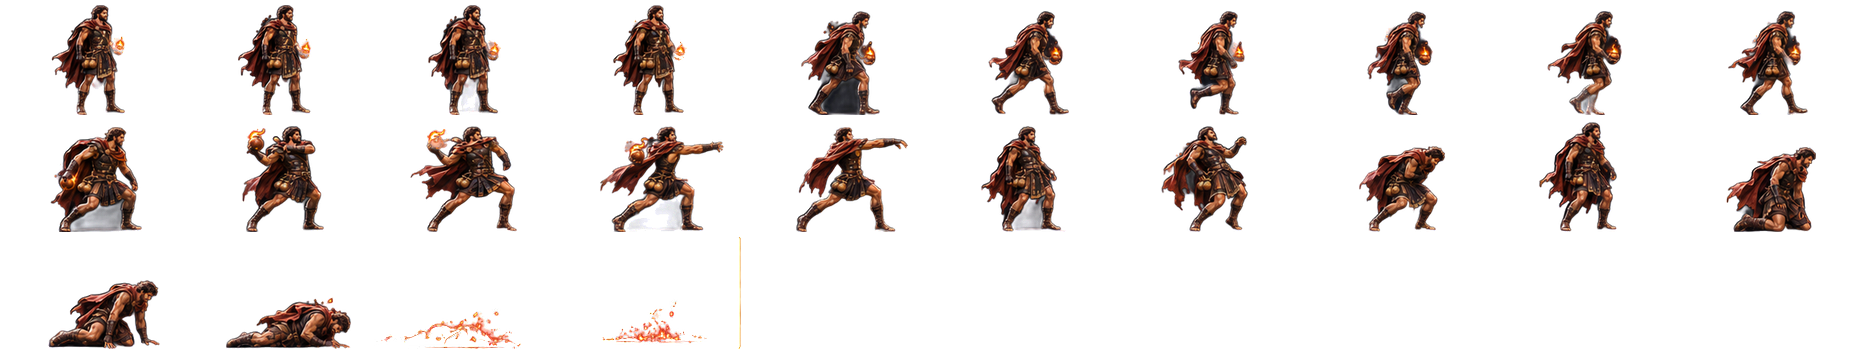
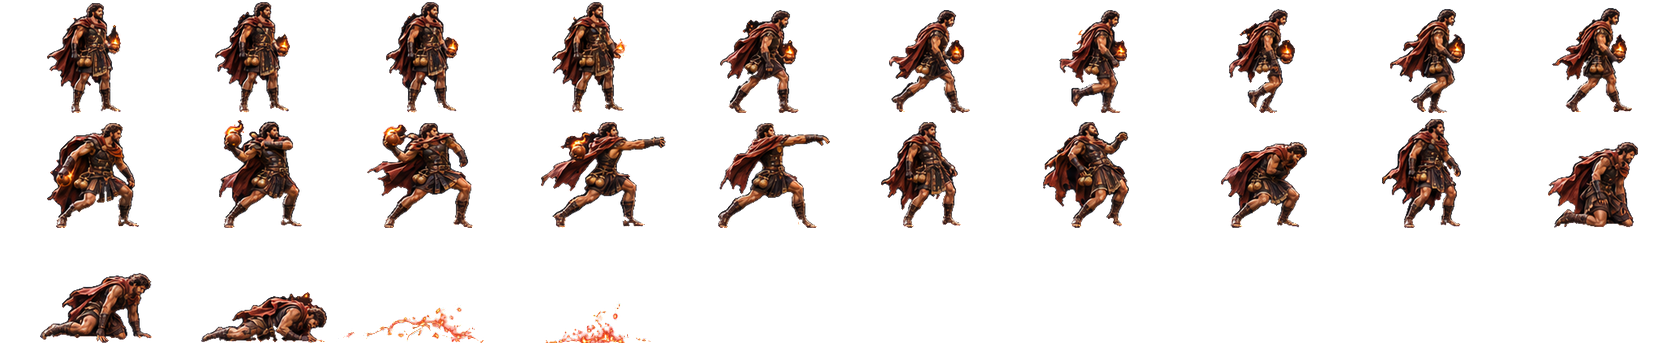
v0.14.1: spion bevriest doelwit (redden kan), P-51 mist niemand meer, duidelijker genezen, schonere uitsneden
- spion: betoverde eenheid staat stil en valt niet aan; spion doden = eenheid gered;
  betoveren duurt 3 s (was 2); roze tint, hartjes en reddingsbalk in beeld
- P-51: hitmarge zodat eenheden die het vliegtuig tegemoet lopen niet meer
  tussen twee ticks door glippen (was 20% gemist)
- genezeres kijkt naar wie ze geneest; lichtstraal en +LP-getal in beeld
  (simulatie geneest aantoonbaar alleen eigen eenheden: test)
- uitsneden nieuwe borden: dekkend figuur, geen schaduwwaas/grondschaduw/paneellijnen
- 4 nieuwe tests; testhulp kent de state 'charmed'

Claude-Session: https://claude.ai/code/session_01G3ZjrAEdzY3bS4o8QwE679

diff --git a/src/main.js b/src/main.js
@@ -509,7 +509,13 @@ class Battle extends Phaser.Scene {
           healer.lockUntil = now + healer.sprite.anims.currentAnim.duration;
         }
         const ally = this.state.units.find(u => u.id === e.targetId);
-        this.sparks.push({ x: e.to.x, y: (ally ? footY(ally) : e.to.y) - 30, t: 0, dur: 0.55, color: 0xffe27a, heal: true });
+        const healerUnit = this.state.units.find(u => u.id === e.attackerId);
+        const ay = (ally ? footY(ally) : e.to.y) - 30;
+        this.sparks.push({ x: e.to.x, y: ay, t: 0, dur: 0.55, color: 0xffe27a, heal: true });
+        if (healerUnit) this.sparks.push({ x: healerUnit.x + healerUnit.facing * 20, y: footY(healerUnit) - 44, tx: e.to.x, ty: ay, t: 0, dur: 0.35, color: 0x9dffb0, beam: true });
+        const plus = this.add.text(e.to.x, ay - 14, '+' + Math.round(e.amount), textStyle(11, '#8dffa3', { strokeThickness: 3 }))
+          .setOrigin(0.5).setDepth(1020).setResolution(clamp(Math.ceil(this.view.zoom), 1, 4));
+        this.tweens.add({ targets: plus, y: plus.y - 18, alpha: 0, duration: 900, onComplete: () => plus.destroy() });
       } else if (e.type === 'cloak') {
         const v = this.views.get(e.id);
         if (v) {
@@ -678,11 +684,24 @@ class Battle extends Phaser.Scene {
       const ud = UNIT_ART[u.card.type], flip = u.facing < 0;
       v.sprite.setPosition(u.x, fy).setFlipX(flip).setOrigin(flip ? 1 - ud.originX : ud.originX, ud.originY)
         .setDepth(fy).setAlpha(alpha);
-      if (now >= v.lockUntil) {
-        const anim = u.state === 'move' ? 'walk' : u.card.type === 'spy' && u.channelTargetId ? 'charm' : 'idle';
-        v.sprite.anims.play(`${v.sprite.texture.key}:${anim}`, true);
+      if (u.state === 'charmed') {
+        // Betoverd: bevroren, roze, hartjes en een balk die toont hoe lang je nog hebt om te redden.
+        if (!v.sprite.anims.isPaused) v.sprite.anims.pause();
+        const spy = this.state.units.find(x => x.id === u.charmedBy);
+        const k = spy ? clamp(spy.channelProgress / spy.card.channelTime, 0, 1) : 0;
+        const top = fy - (UNIT_HEIGHT[u.card.type] ?? 56) - 9;
+        b.fillStyle(0x1d1a16, 0.9).fillRoundedRect(u.x - 16, top, 32, 5, 2);
+        b.fillStyle(0xff6fd0).fillRoundedRect(u.x - 16, top, 32 * k, 5, 2);
+        if (Math.random() < 0.08) this.sparks.push({ x: u.x + (Math.random() - 0.5) * 18, y: fy - 40, t: 0, dur: 0.7, color: 0xff7ad9, heart: true });
+      } else {
+        if (v.sprite.anims.isPaused) v.sprite.anims.resume();
+        if (now >= v.lockUntil) {
+          const anim = u.state === 'move' ? 'walk' : u.card.type === 'spy' && u.channelTargetId ? 'charm' : 'idle';
+          v.sprite.anims.play(`${v.sprite.texture.key}:${anim}`, true);
+        }
       }
-      if (now < v.flashUntil) v.sprite.setTint(0xff9a8a);
+      if (u.state === 'charmed') v.sprite.setTint(0xff9ad8);
+      else if (now < v.flashUntil) v.sprite.setTint(0xff9a8a);
       else if (now < (v.charmUntil ?? 0)) v.sprite.setTint(0xffa6e8);
       else if (u.hidden) v.sprite.setTint(0xb48cff);
       else v.sprite.clearTint();
@@ -768,6 +787,17 @@ class Battle extends Phaser.Scene {
       s.t += dt;
       const k = s.t / s.dur;
       if (k >= 1) return false;
+      if (s.heart) {   // hartje dat opstijgt
+        const hx = s.x, hy = s.y - k * 18, r = 2.2;
+        g.fillStyle(s.color, 1 - k).fillCircle(hx - r * 0.55, hy, r).fillCircle(hx + r * 0.55, hy, r)
+          .fillTriangle(hx - r * 1.5, hy + r * 0.3, hx + r * 1.5, hy + r * 0.3, hx, hy + r * 2.2);
+        return true;
+      }
+      if (s.beam) {    // lichtstraal van genezeres naar bondgenoot
+        g.lineStyle(3, s.color, (1 - k) * 0.8).lineBetween(s.x, s.y, s.tx, s.ty);
+        g.lineStyle(1.2, 0xffffff, (1 - k) * 0.9).lineBetween(s.x, s.y, s.tx, s.ty);
+        return true;
+      }
       if (s.heal) {   // opstijgende gouden (genezen) of roze (betoverd) glinsters
         for (let i = 0; i < 6; i++) {
           const a = i * 1.05 + s.x, rr = 8 + 6 * Math.sin(a * 3);

diff --git a/tests/special-units.test.js b/tests/special-units.test.js
@@ -50,12 +50,12 @@ test('Healer heals biological allies but not mechanical units', () => {
   assert.equal(cannon.hp, 100);
 });
 
-test('Spy converts an eligible biological unit after 2 seconds and disappears', () => {
+test('Spy converts an eligible biological unit after the channel time and disappears', () => {
   const s = createBattle({ ai: false });
   const spy = addUnit(s, 'blue', 0, idx('spy'), 490);
   const foe = addUnit(s, 'red', 0, idx('melee'), 507);
   spy.hp = 500; spy.max = 500;
-  const events = run(s, 2.15);
+  const events = run(s, spy.card.channelTime + 0.15);
   assert.equal(foe.side, 'blue');
   assert.ok(events.some(e => e.type === 'possess' && e.targetId === foe.id));
   assert.ok(!s.units.includes(spy));
@@ -110,4 +110,57 @@ test('Samurai stays visible while it keeps fighting', () => {
   foe.hp = foe.max = 5000;
   run(s, 0.5);
   for (let i = 0; i < 6 * 60; i++) { step(s, 1 / 60); assert.equal(samurai.hidden, false); }
+});
+
+test('P-51 hits every enemy unit in its lane, also units walking towards it', () => {
+  let missed = 0;
+  for (let k = 0; k < 40; k++) {
+    const s = createBattle({ ai: false, seed: k });
+    const units = [];
+    for (let i = 0; i < 5; i++) {
+      const u = addUnit(s, 'red', 0, idx(i % 2 ? 'cavalry' : 'melee'), 330 + i * 80 + k * 1.3);
+      u.hp = u.max = 99999; units.push(u);
+    }
+    s.energy.blue = 10; deploy(s, 'blue', 0, idx('p51'), 400);
+    const hit = new Set(run(s, 2.5).filter(e => e.kind === 'p51').map(e => e.targetId));
+    missed += units.filter(u => !hit.has(u.id)).length;
+  }
+  assert.equal(missed, 0);
+});
+
+test('Charmed unit is frozen while the spy channels', () => {
+  const s = createBattle({ ai: false });
+  const spy = addUnit(s, 'blue', 0, idx('spy'), 470);
+  const foe = addUnit(s, 'red', 0, idx('melee'), 500);
+  spy.hp = spy.max = 5000;
+  run(s, 0.3);
+  assert.equal(foe.charmedBy, spy.id);
+  const x = foe.x;
+  const events = run(s, spy.card.channelTime - 0.6);
+  assert.equal(foe.state, 'charmed');
+  assert.equal(foe.x, x, 'staat stil');
+  assert.ok(!events.some(e => e.type === 'hit' && e.attackerId === foe.id), 'valt niet aan');
+});
+
+test('Killing the spy in time rescues the charmed unit', () => {
+  const s = createBattle({ ai: false });
+  const spy = addUnit(s, 'blue', 0, idx('spy'), 470);
+  const foe = addUnit(s, 'red', 0, idx('melee'), 500);
+  run(s, 0.5);
+  assert.equal(foe.state, 'charmed');
+  spy.hp = 0;                                   // gered: een bondgenoot doodt de spion
+  run(s, 0.5);
+  assert.equal(foe.side, 'red');
+  assert.equal(foe.charmedBy ?? null, null);
+  assert.notEqual(foe.state, 'charmed');
+});
+
+test('Healer only heals own units and turns towards the ally she heals', () => {
+  const s = createBattle({ ai: false });
+  const healer = addUnit(s, 'red', 0, idx('healer'), 600);
+  const enemy = addUnit(s, 'blue', 0, idx('melee'), 560); enemy.hp = enemy.max = 99999; enemy.hp = 5000;
+  const ally = addUnit(s, 'red', 0, idx('melee'), 660); ally.hp = 100;
+  const heals = run(s, 3).filter(e => e.type === 'heal');
+  assert.ok(heals.length >= 1);
+  assert.ok(heals.every(e => e.targetId === ally.id));
 });

diff --git a/src/sim/battle.js b/src/sim/battle.js
@@ -235,8 +235,11 @@ export function step(state, dt) {
       ...state.structures.filter(t => t.hp > 0 && t.side !== strike.side && t.kind === 'tower' && t.lane === strike.lane),
     ];
     for (const target of candidates) {
-      if (strike.hitIds.includes(target.id) || target.x < Math.min(x0, x1) ||
-          target.x > Math.max(x0, x1)) continue;
+      // Marge: eenheden lopen het vliegtuig tegemoet en zouden anders tussen
+      // twee ticks door het strookje kunnen glippen.
+      const margin = target.radius + 8;
+      if (strike.hitIds.includes(target.id) || target.x < Math.min(x0, x1) - margin ||
+          target.x > Math.max(x0, x1) + margin) continue;
       const aircraft = CARDS.find(c => c.type === 'p51');
       const pct = target.kind ? 0 : aircraft.minUnitDamagePct +
         state.rng() * (aircraft.maxUnitDamagePct - aircraft.minUnitDamagePct);
@@ -259,6 +262,12 @@ export function step(state, dt) {
   // 1. BESLISSEN
   for (const u of state.units) {
     if (u.hp <= 0) continue;
+    // Betoverd door een spion: bevroren tot de overname, of tot de spion gedood is (gered).
+    if (u.charmedBy) {
+      const spy = state.units.find(x => x.id === u.charmedBy && x.hp > 0 && x.channelTargetId === u.id);
+      if (spy) { u.state = 'charmed'; u.targetId = null; continue; }
+      u.charmedBy = null;
+    }
     u.cd = Math.max(0, u.cd - dt);
     // Schaduwsamoerai: na recloakTime zonder aanval weer onzichtbaar, met nieuwe hinderlaagbonus.
     if (u.card.type === 'samurai' && !u.hidden) {
@@ -279,6 +288,7 @@ export function step(state, dt) {
         const ally = allies[0];
         const amount = Math.min(ally.max - ally.hp, ally.max * u.card.healPct);
         ally.hp += amount;
+        if (ally.x !== u.x) u.facing = ally.x > u.x ? 1 : -1;
         u.cd = u.card.rate;
         u.state = 'attack';
         u.targetId = ally.id;
@@ -296,6 +306,7 @@ export function step(state, dt) {
       if (u.card.type === 'spy') {
         u.state = 'attack';
         if (u.channelTargetId !== target.id) { u.channelTargetId = target.id; u.channelProgress = 0; }
+        target.charmedBy = u.id;
         u.channelProgress += dt;
         if (u.channelProgress >= u.card.channelTime) {
           const formerSide = target.side;
@@ -304,6 +315,7 @@ export function step(state, dt) {
           target.targetId = null;
           target.channelTargetId = null;
           target.channelProgress = 0;
+          target.charmedBy = null;
           u.hp = 0;
           state.events.push({ type: 'possess', spyId: u.id, targetId: target.id,
             fromSide: formerSide, toSide: u.side, x: target.x, y: target.y });

diff --git a/src/sim/config.js b/src/sim/config.js
@@ -44,7 +44,7 @@ export const CARDS = [
   { name: 'Shadow Samurai', type: 'samurai', role: 'melee', material: 'bio', cost: 4,
     hp: 170, damage: 54, range: 14, speed: 75, rate: 1.0, radius: 13, stealthBonus: 1.5, recloakTime: 2.5 },
   { name: 'Spy', type: 'spy', role: 'special', material: 'bio', cost: 5,
-    hp: 100, damage: 0, range: 24, speed: 59, rate: 2.0, radius: 12, channelTime: 2.0, maxStealCost: 5 },
+    hp: 100, damage: 0, range: 24, speed: 59, rate: 2.0, radius: 12, channelTime: 3.0, maxStealCost: 5 },
   { name: 'Fire Thrower', type: 'firethrower', role: 'ranged', material: 'bio', cost: 4,
     hp: 115, damage: 18, range: 94, speed: 40, rate: 2.4, radius: 13, splashRadius: 42, burnDps: 12, burnSeconds: 3 },
   { name: 'P-51 Mustang', type: 'p51', role: 'special', material: 'mechanical', cost: 6,

diff --git a/tests/helpers.js b/tests/helpers.js
@@ -49,6 +49,9 @@ export function run(state, seconds, onTick) {
         const waited = (sinceHit.get(u.id) ?? 0) + TICK;
         sinceHit.set(u.id, waited);
         assert.ok(u.card.type === 'spy' || waited <= u.card.rate + 2 * TICK, `eenheid ${u.id} (${u.card.name}) staat ${waited.toFixed(2)}s in 'attack' zonder te slaan`);
+      } else if (u.state === 'charmed') {
+        assert.equal(u.x, before.get(u.id), `betoverde eenheid ${u.id} hoort stil te staan`);
+        sinceHit.delete(u.id);
       } else if (u.state === 'idle' && u.card.type === 'spy') {
         // Spy awaits an eligible biological target.
       } else {

diff --git a/tools/art/boards.py b/tools/art/boards.py
@@ -42,13 +42,55 @@ def panel_frames(a, y0, y1, x0, x1, count, thresh=58, mingap=8):
         runs[i:i+1] = [[r0, c], [c, r1]]
     return [(x0 + r0, y0, x0 + r1, y1) for r0, r1 in runs]
 
-def cut_frame(a, box, pad=10, glow=True, fx_only=False):
+
+def clean_alpha(rgb, al, bg_blobs=True):
+    """u2net-alpha -> strak masker: figuur volledig dekkend, waas en grondschaduw weg."""
+    f = rgb.astype(float)
+    bg = np.median(np.concatenate([f[:4].reshape(-1, 3), f[:, :4].reshape(-1, 3), f[:, -4:].reshape(-1, 3)]), 0)
+    dist = np.abs(f - bg).max(2)                       # verschil met de bordachtergrond
+    core = (al > 60) | ((al > 10) & (dist > 20))       # zeker figuur
+    core = ndi.binary_closing(core, iterations=1)
+    # alleen kleine gaatjes dichten; grote openingen (tussen benen, binnen een boog) blijven open
+    holes = ndi.binary_fill_holes(core) & ~core
+    hl, hn = ndi.label(holes)
+    if hn:
+        hs = ndi.sum(holes, hl, range(1, hn + 1))
+        core |= np.isin(hl, [i + 1 for i, v in enumerate(hs) if v < 60])
+    # grote achtergrondkleurige vlakken die aan de buitenkant van het figuur grenzen (tussen benen e.d.)
+    bgl = core & (dist < 15) if bg_blobs else np.zeros_like(core)
+    bl, bn = ndi.label(bgl)
+    if bn:
+        outside = ndi.binary_dilation(~core, iterations=1)
+        bs = ndi.sum(bgl, bl, range(1, bn + 1))
+        touch = ndi.maximum(outside, bl, range(1, bn + 1))
+        core &= ~np.isin(bl, [i + 1 for i in range(bn) if bs[i] > 80 and touch[i]])
+    # grondschaduw: onderste strook, alleen pixels die op de achtergrond lijken weg
+    h = core.shape[0]; foot = np.zeros_like(core); foot[int(h * 0.9):] = True
+    core &= ~(foot & (dist < 28))
+    core = ndi.binary_opening(core, iterations=1)
+    lab, n = ndi.label(core)
+    if n:
+        sizes = ndi.sum(core, lab, range(1, n + 1))
+        core = np.isin(lab, [i + 1 for i, s in enumerate(sizes) if s >= max(40, sizes.max() * 0.01)])
+    # zachte rand van 1-2 px
+    soft = ndi.gaussian_filter(core.astype(float), 0.8)
+    return np.where(core, np.maximum(soft, 0.75), soft * (soft > 0.35)) * 255
+
+
+def _thin_line(sl):
+    h, w = sl[0].stop - sl[0].start, sl[1].stop - sl[1].start
+    return (h <= 7 and w > 30) or (w <= 7 and h > 30)   # paneelrand, geen figuur
+
+def cut_frame(a, box, pad=10, glow=True, fx_only=False, bg_blobs=True):
     """Geeft (rgb, mask, alpha) voor één frame."""
     x0, y0, x1, y1 = box
     X0, Y0 = max(0, x0 - pad), max(0, y0)
     X1, Y1 = min(a.shape[1], x1 + pad), min(a.shape[0], y1)
     rgb = a[Y0:Y1, X0:X1].astype(np.uint8)
-    al = np.zeros(rgb.shape[:2], np.float32) if fx_only else _rembg(Image.fromarray(rgb)).astype(np.float32)
+    if fx_only:
+        al = np.zeros(rgb.shape[:2], np.float32)
+    else:   # AI-masker, daarna strak gemaakt: figuur dekkend, schaduwwaas en grondschaduw weg
+        al = clean_alpha(rgb, _rembg(Image.fromarray(rgb)).astype(np.float32), bg_blobs).astype(np.float32)
     if glow:
         # emissieve effecten: helderheid boven de achtergrond = dekking (zwart-sleutel)
         f = rgb.astype(np.float32)
@@ -56,6 +98,15 @@ def cut_frame(a, box, pad=10, glow=True, fx_only=False):
         g = np.clip((lum - 70) / 140, 0, 1) * np.clip(sat / 90, 0, 1) * 255   # alleen heldere, gekleurde gloed
         al = np.maximum(al, g)
     al[al < 24] = 0
+    # goudlijnen van paneelranden in de bovenste/onderste 5 rijen en buitenste kolommen weghalen
+    edge_gold = (rgb[..., 0] > 120) & (rgb[..., 1] > 80) & (rgb[..., 2] < 90) & (al < 200)
+    for sl in (np.s_[:6, :], np.s_[-6:, :], np.s_[:, :6], np.s_[:, -6:]):
+        al[sl][edge_gold[sl]] = 0
+    # rijen aan boven/onderkant die bijna helemaal vol zijn (paneelrand die aan het figuur vastzit)
+    full = (al > 40).mean(1)
+    for rows in (range(0, min(10, len(full))), range(max(0, len(full) - 10), len(full))):
+        for r in rows:
+            if full[r] > 0.45: al[max(0, r - 1):r + 2] = 0
     m = al > 0
     lab, n = ndi.label(m)
     if n:
@@ -63,7 +114,7 @@ def cut_frame(a, box, pad=10, glow=True, fx_only=False):
         objs = ndi.find_objects(lab)
         # weg: kleine snippers en dunne paneelranden (lange, platte lijnen)
         m = np.isin(lab, [i + 1 for i, s in enumerate(sizes) if s >= 40 and
-                          not (objs[i][0].stop - objs[i][0].start <= 7 and objs[i][1].stop - objs[i][1].start > 30)])
+                          not _thin_line(objs[i])])
     al = al * m
     # kleur ontmengen van de (zwarte) achtergrond waar alpha < 1
     A = (al / 255)[..., None]
@@ -76,7 +127,7 @@ def cut_frame(a, box, pad=10, glow=True, fx_only=False):
     sl = (slice(b[1], b[3]), slice(b[0], b[2]))
     return col[sl], m[sl], al[sl].astype(np.uint8)
 
-def board_unit(path, panels, x0, x1, glow=True, fx=None):
+def board_unit(path, panels, x0, x1, glow=True, fx=None, bg_blobs=True):
     """panels: {anim: (y0, y1, aantal) of (y0, y1, aantal, x0, x1)} -> groepen voor build().
     fx: {anim: {frame-indexen}} voor frames met alleen rook/vonken (geen figuur)."""
     a = np.array(Image.open(path).convert('RGB'))
@@ -85,7 +136,7 @@ def board_unit(path, panels, x0, x1, glow=True, fx=None):
     for anim, spec in panels.items():
         y0, y1, count = spec[:3]
         px0, px1 = (spec[3], spec[4]) if len(spec) > 3 else (x0, x1)
-        G[anim] = [cut_frame(a, b, glow=glow, fx_only=i in fx.get(anim, ()))
+        G[anim] = [cut_frame(a, b, glow=glow, fx_only=i in fx.get(anim, ()), bg_blobs=bg_blobs)
                    for i, b in enumerate(panel_frames(a, y0, y1, px0, px1, count))]
     return G
 

diff --git a/tools/art/units.py b/tools/art/units.py
@@ -151,7 +151,8 @@ def build_units(SRC, OUT, MANIFEST):
         fx={'cloak':{4,5},'reveal':{0},'death':{4,5}})
     manifest['samurai']=build(OUT,'samurai',G,112,'idle',{'-red':ident,'-blue':toblue})
     G=board_unit(SRC+'spion-bord.png',{'idle':(5,158,4,410,1110),'walk':(168,302,6),'attack':(312,440,6),
-        'charm':(447,580,8),'hit':(700,826,3,410,930),'death':(835,990,6)},410,1528,fx={'death':{4,5}})
+        'charm':(447,580,8),'hit':(700,826,3,410,930),'death':(835,990,6)},410,1528,fx={'death':{4,5}},
+        bg_blobs=False)   # zwart pak = kleur van het bord
     manifest['spy']=build(OUT,'spy',G,110,'idle',{'':ident})
     G=board_unit(SRC+'genezeres-bord.png',{'idle':(5,155,4,400,1160),'walk':(165,312,6),'heal':(320,485,6),
         'attack':(490,640,6),'hit':(648,790,3,400,880),'death':(798,970,7)},400,1532,fx={'death':{5,6}})

diff --git a/art/README.md b/art/README.md
@@ -50,7 +50,7 @@ Een nieuwe kaart: voeg hem toe aan `kaarten.png` (zelfde stijl, juweel linksbove
 
 `vuurwerper-bord.png`, `samoerai-bord.png`, `spion-bord.png` en `genezeres-bord.png` zijn borden op een donkere
 achtergrond. `boards.py` vindt per paneel de frames en haalt het figuur los met **rembg** (`pip install "rembg[cpu]"`,
-model u2net); vuur, magie en gloed worden er met een zwart-sleutel bij gehouden. Paneelcoördinaten staan in `units.py`.
+model u2net). Dat masker wordt daarna strak gemaakt (`clean_alpha`): figuur volledig dekkend, schaduwwaas, grondschaduw en paneelranden weg. Vuur, magie en gloed worden er met een zwart-sleutel bij gehouden. **Tip:** lever nieuwe borden bij voorkeur op een witte of groene achtergrond; zwarte kleding op een zwart bord (zoals de spion) is nooit perfect los te knippen. Paneelcoördinaten staan in `units.py`.
 Het vuur van de vuurpot (`fx-fire.jpg`) en de P-51 (`p51.png`) staan in `effects.py`; menu en logo in `screens.py`.
 
 ## Referentiebladen
